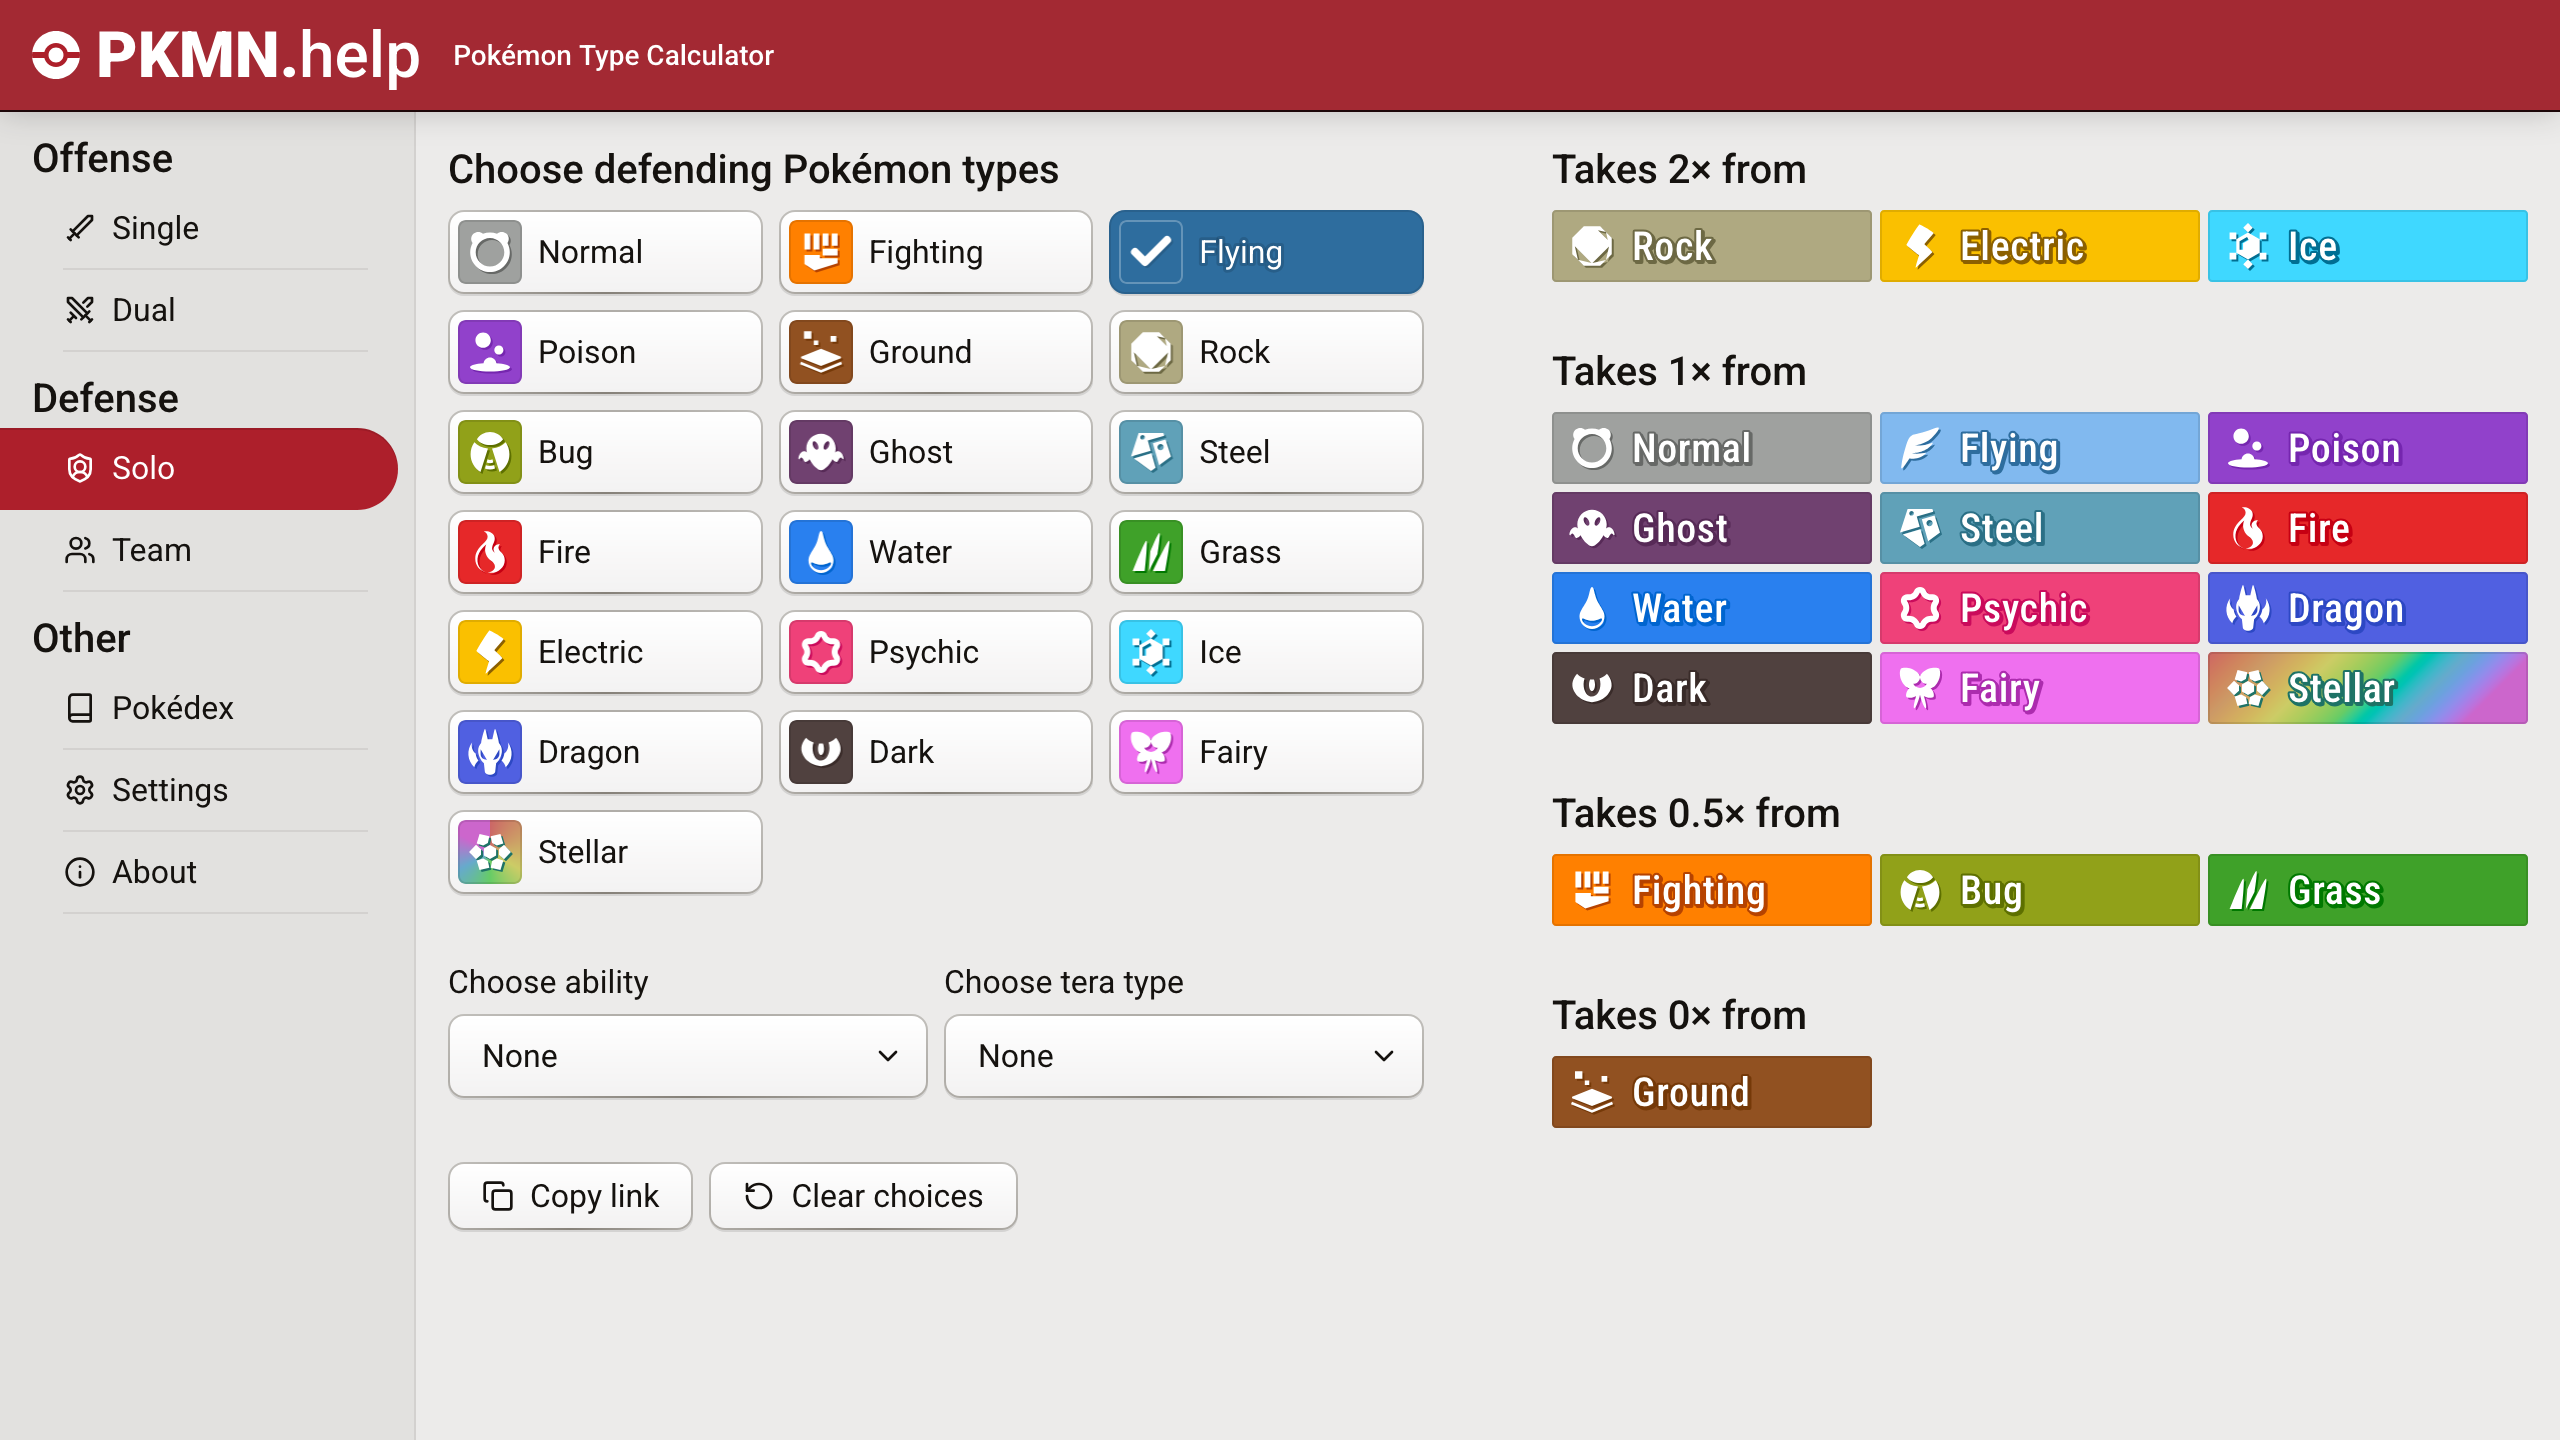
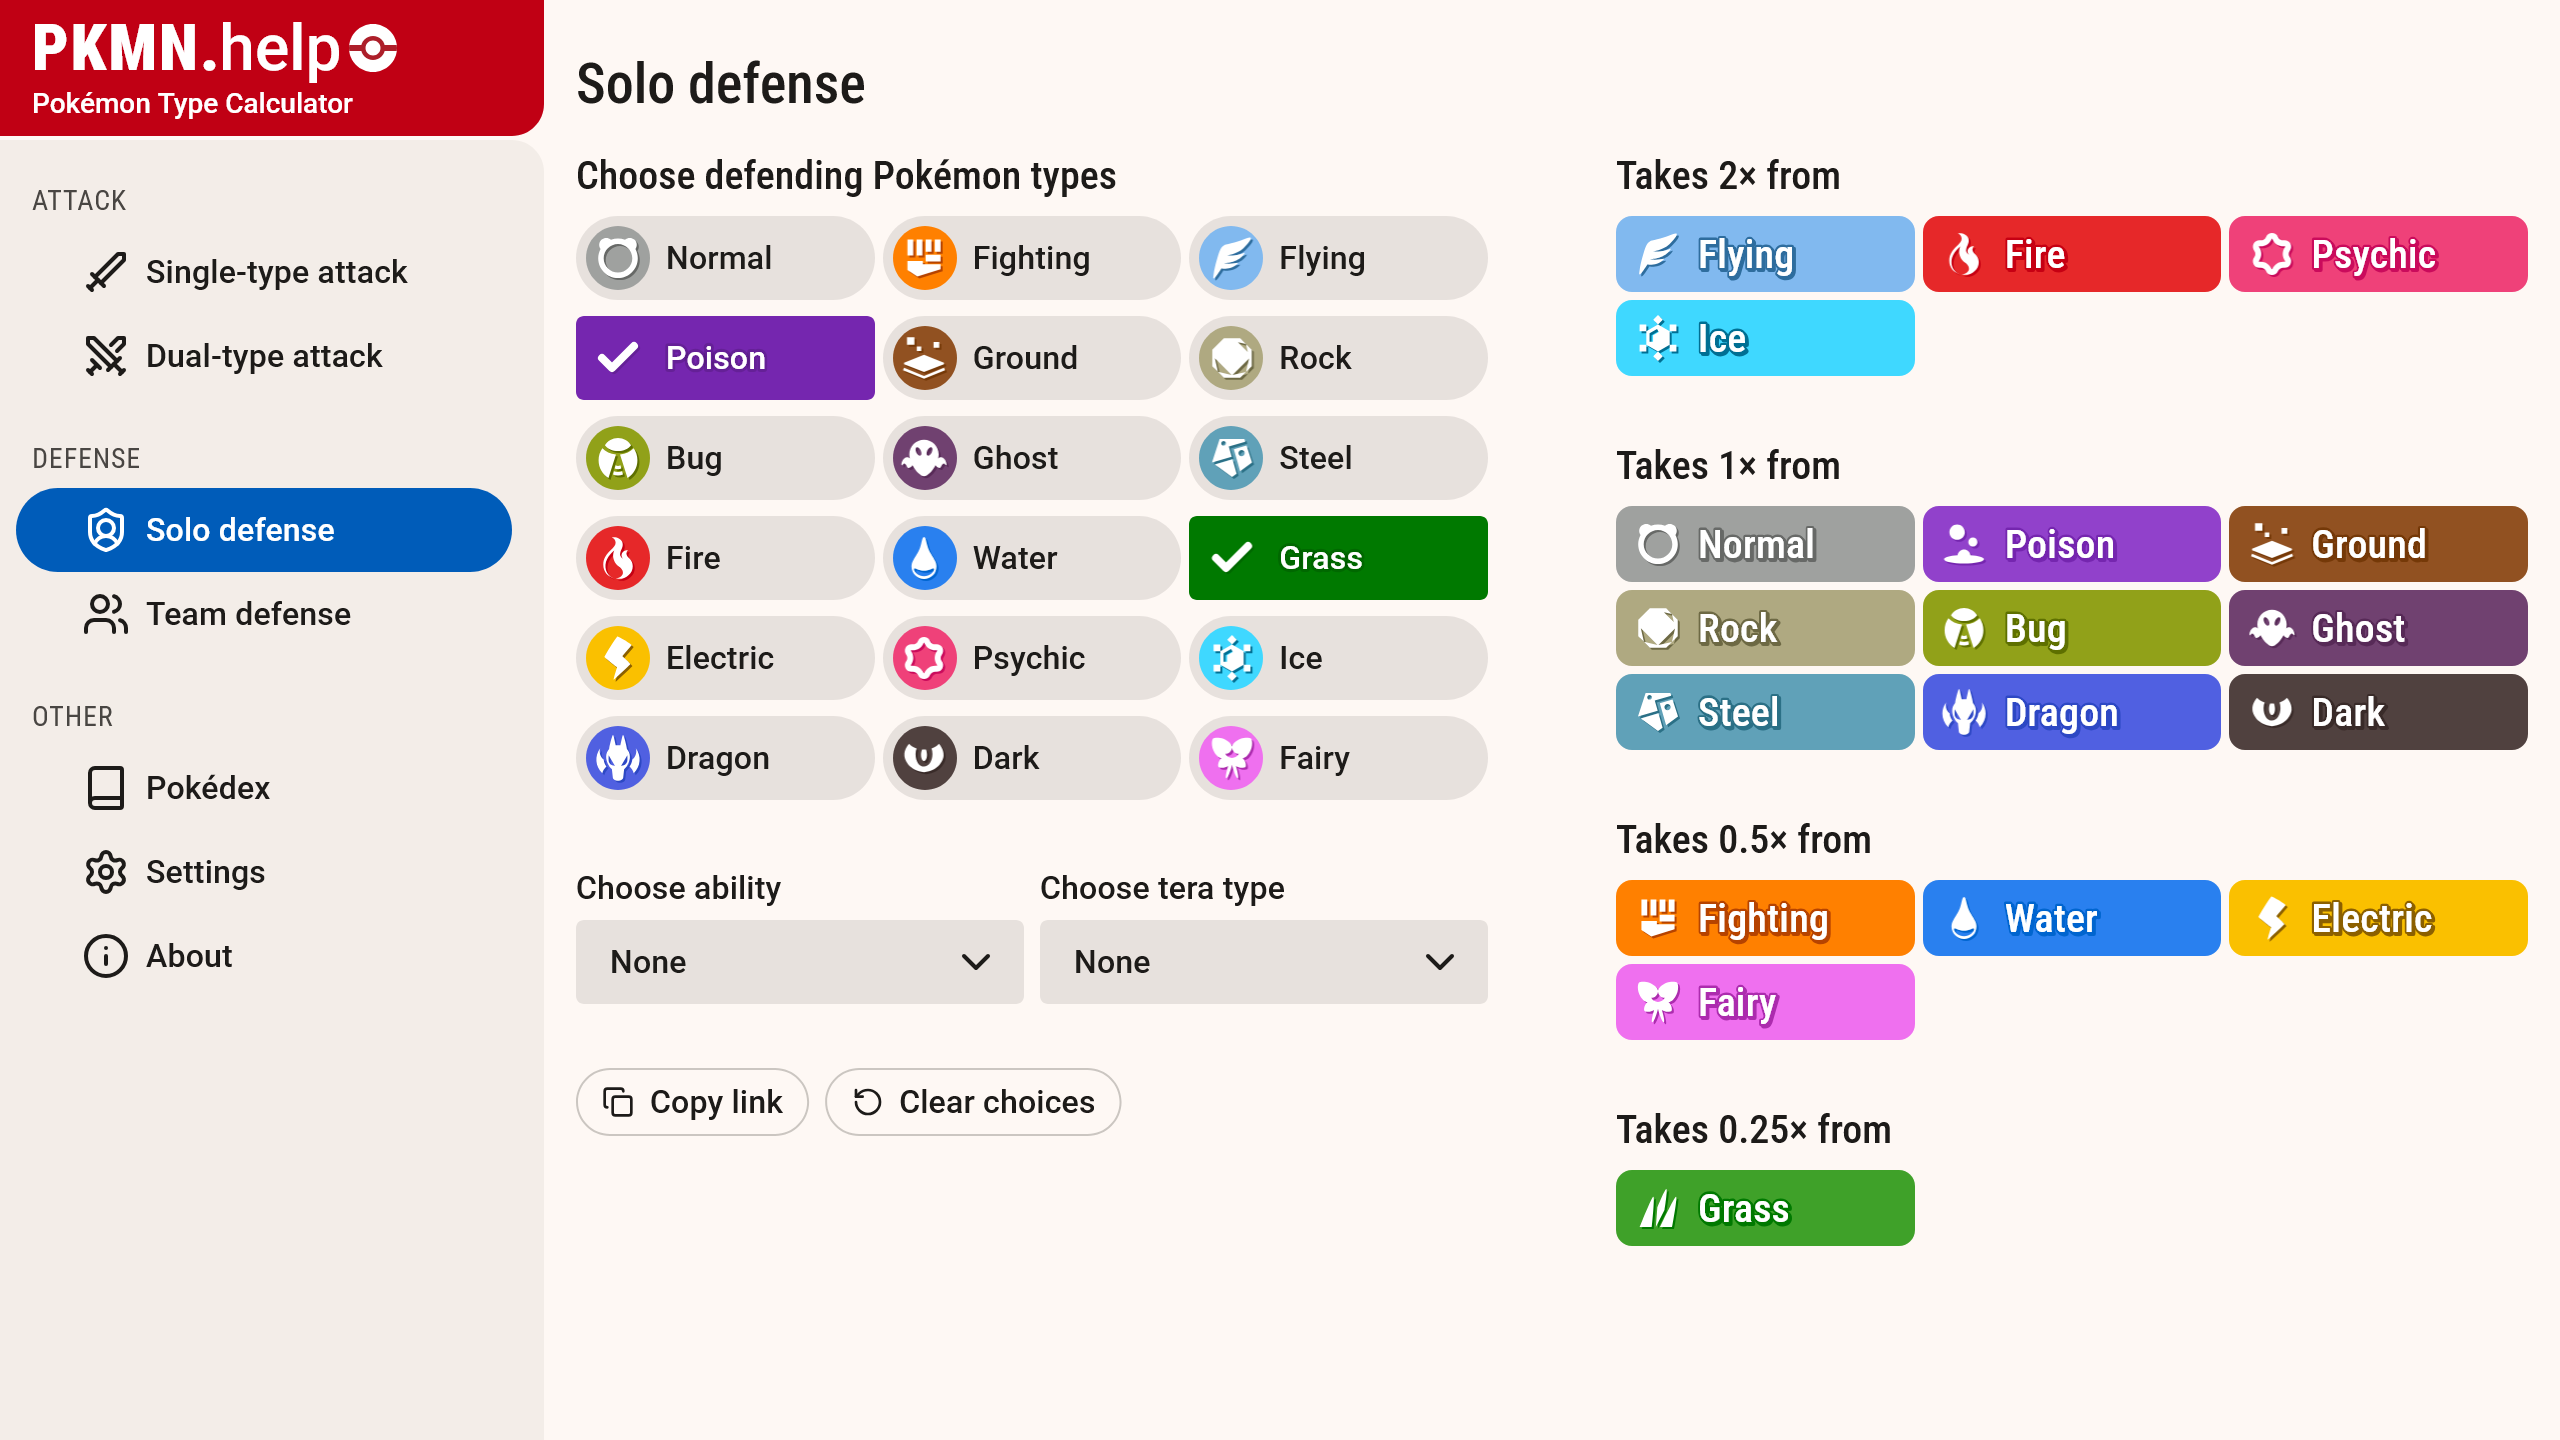
update images

diff --git a/scripts/post.js b/scripts/post.js
@@ -92,13 +92,12 @@ async function promoteDraft(slug) {
   }
 
   await fs.mkdir(path.join(blogDir, year), { recursive: true });
-  if (process.platform === "win32") {
-    // Windows dev-server file watchers hold directory handles that block
-    // rename, so copy then delete instead.
-    await fs.cp(srcDir, destDir, { recursive: true });
-    await fs.rm(srcDir, { recursive: true });
-  } else {
+  try {
     await fs.rename(srcDir, destDir);
+  } catch (err) {
+    fail(
+      `Couldn't move src/drafts/${slug} to src/blog/${year}/${slug}: ${err.message}`,
+    );
   }
   await fs.writeFile(
     path.join(destDir, "index.json"),
